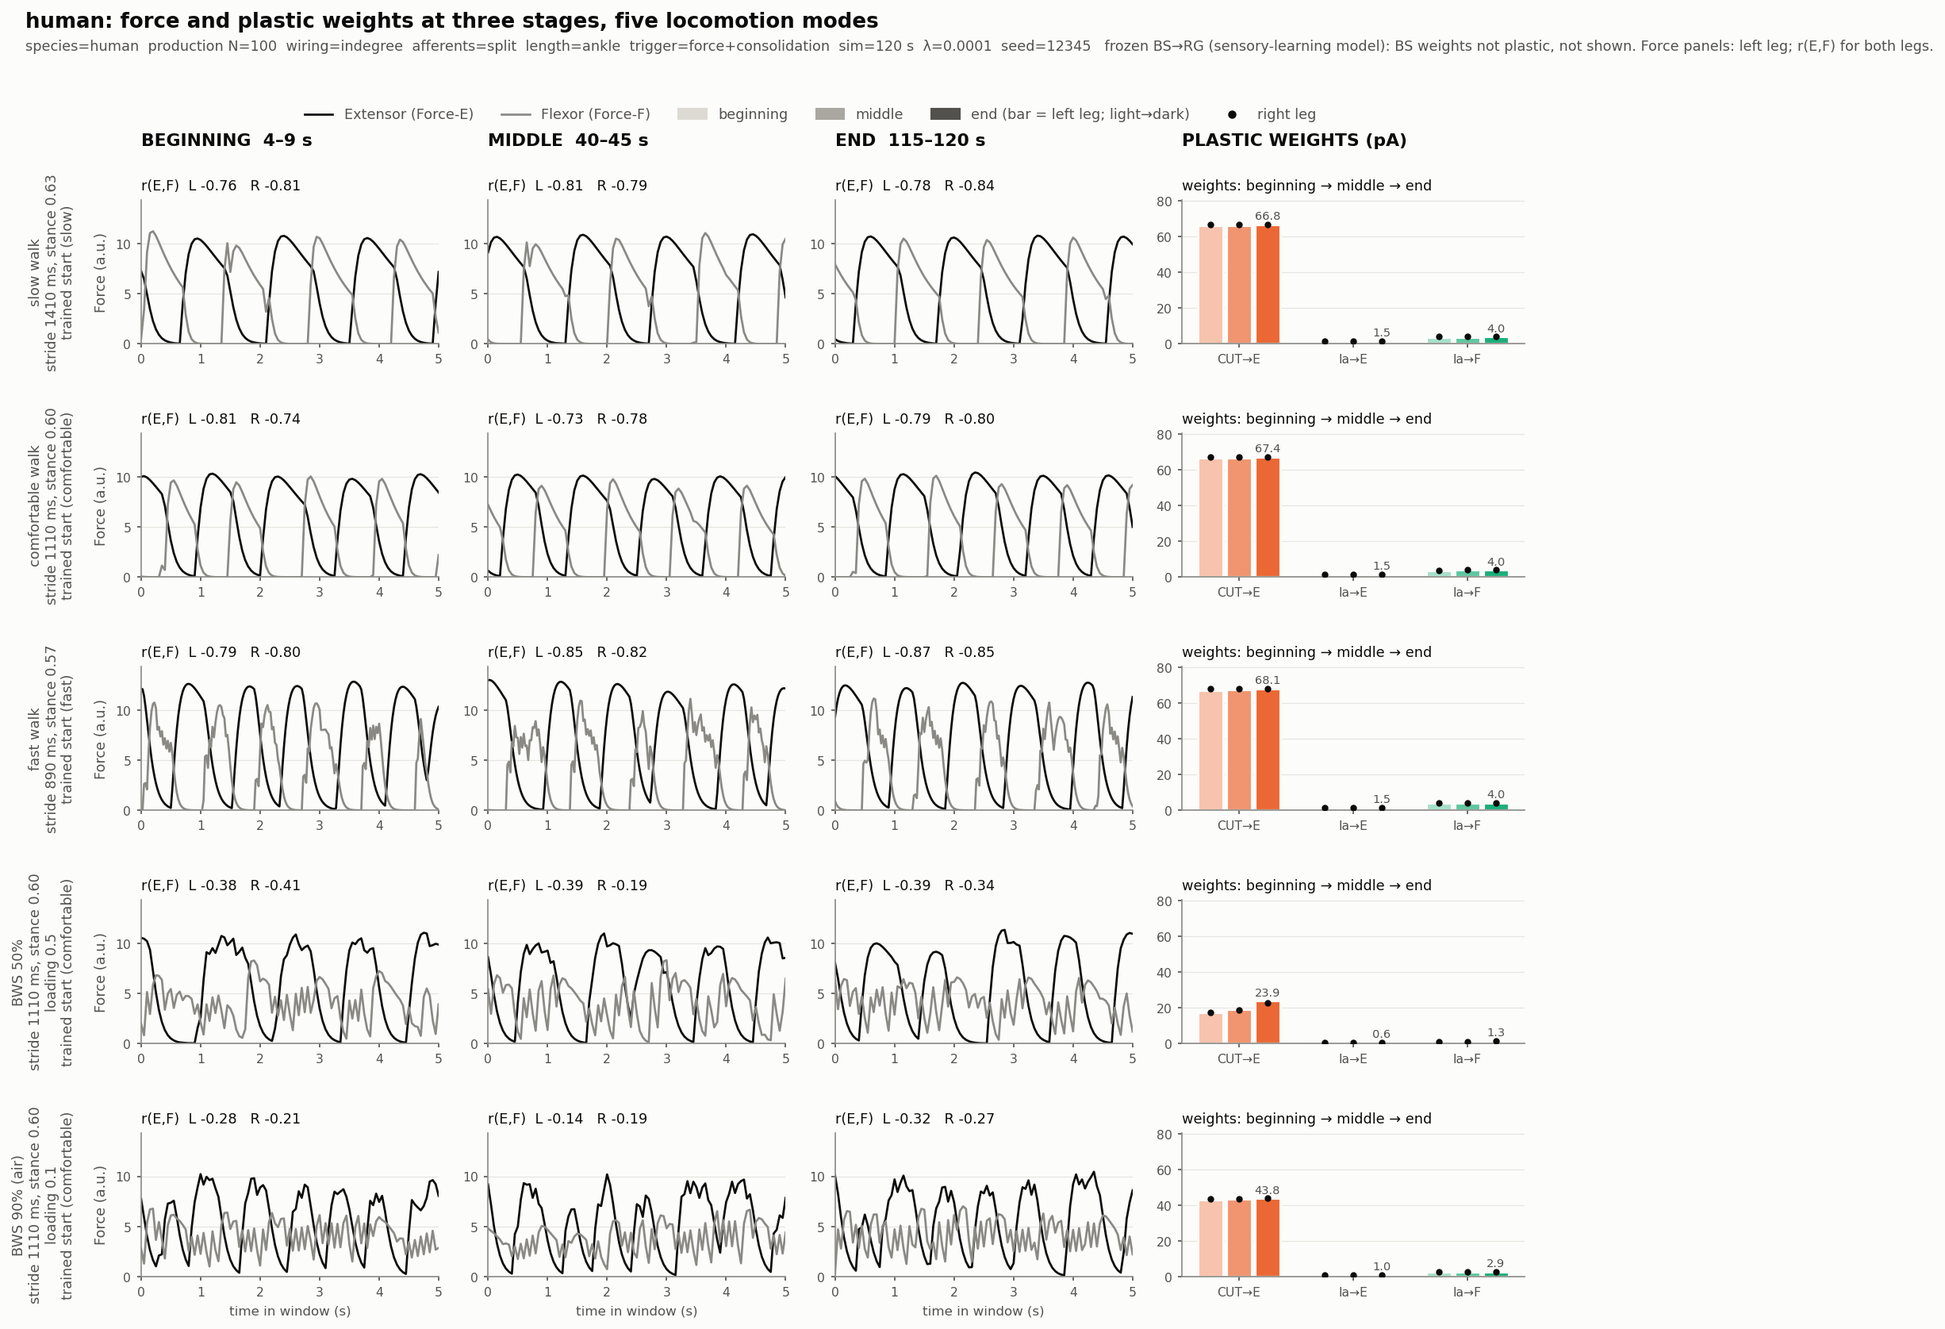
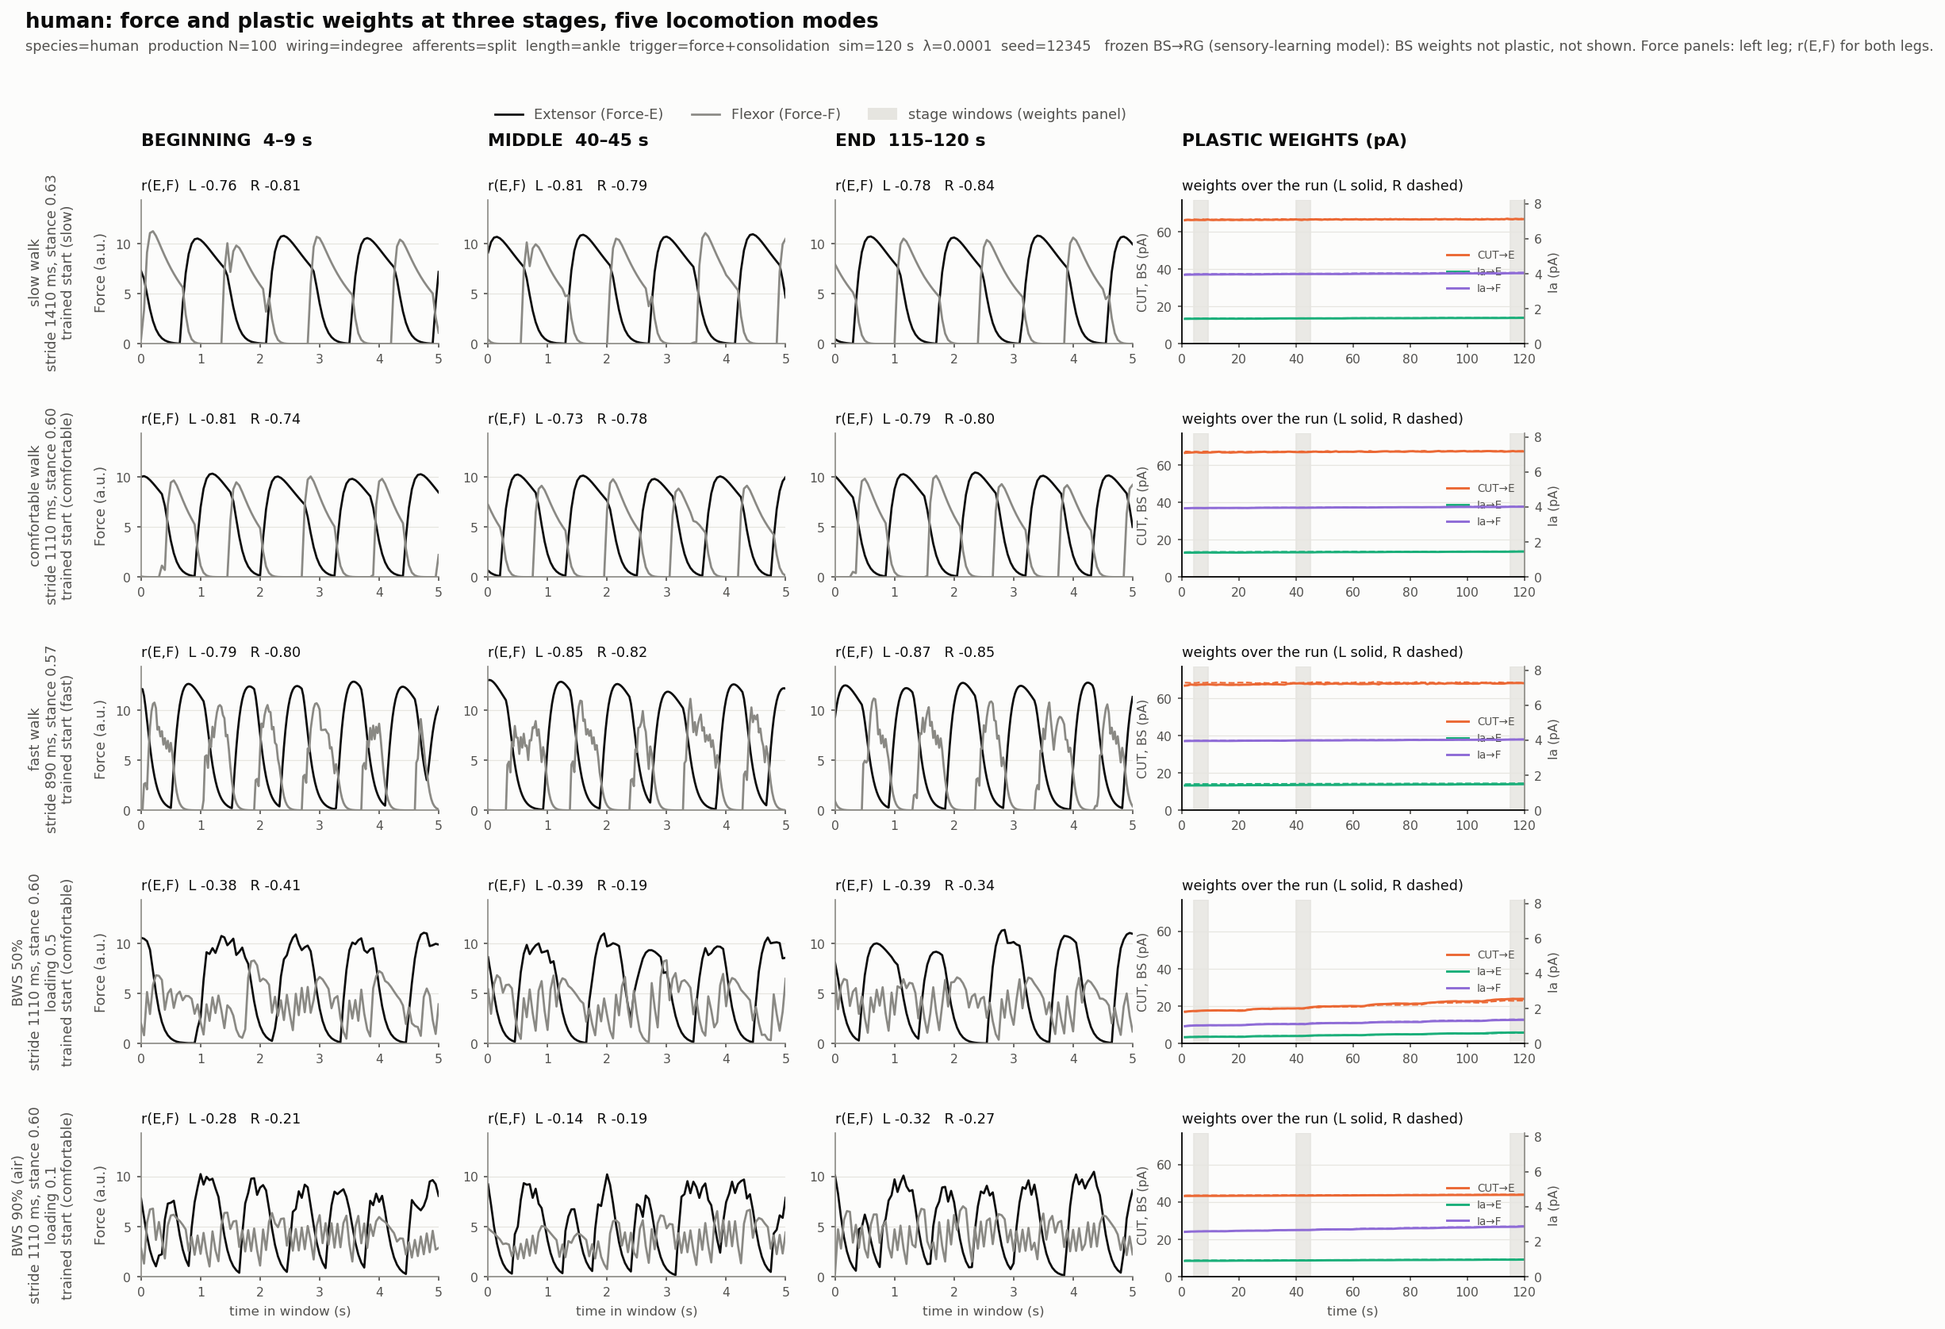
P6: 15-session chains, line-plot weight figures
- scripts/p6_chain_stages.py: first/middle/last session force + weights over the chain
- scripts/cpg_modes_stages.py: weights as time-course lines (--weights-style)
- PLAN.md: chain results (BWS 50% reaches r(E,F) <= -0.5 at session 10; BWS 90% no gain)

diff --git a/scripts/p6_chain_stages.py b/scripts/p6_chain_stages.py
@@ -1,0 +1,153 @@
+#!/usr/bin/env python3
+"""
+p6_chain_stages.py
+PLAN.md Phase 6: force and plastic weights of session chains (run_p6_sessions.sh) at
+three states -- the first, a middle and the last session.
+
+Layout: one row per chain (e.g. BWS 50%, BWS 90%), 4 columns:
+  cols 1-3  force in the last --window-ms of session 1, the middle session and the last
+            session, left leg: Force-E (ink) and Force-F (gray); title: r(E,F) L and R
+  col 4     weights over the whole chain (sessions back to back): live mean CUT->RG-E
+            (orange), its captured baseline (orange dotted), Ia->RG-E / Ia->RG-F on the right
+            axis; left leg; session boundaries as thin lines, the three shown sessions shaded
+
+Usage:
+  python3 scripts/p6_chain_stages.py results/human_modes/p6_chain15/bws50 \
+      results/human_modes/p6_chain15/bws90 --out plots/p6/chain15_stages.png
+"""
+import argparse
+import glob
+import os
+import re
+
+import h5py
+import matplotlib
+
+matplotlib.use("Agg")
+import matplotlib.pyplot as plt  # noqa: E402
+import numpy as np  # noqa: E402
+
+INK, INK_2, MUTED, GRID, SURFACE = "#0b0b0b", "#52514e", "#8a8984", "#e6e5e0", "#fcfcfb"
+COL = {"cut->rge": "#eb6834", "ia->rge": "#1baf7a", "ia->rgf": "#8e6bd6"}
+LABEL = {"cut->rge": "CUT→E", "ia->rge": "Ia→E", "ia->rgf": "Ia→F"}
+
+
+def style(ax):
+    ax.set_facecolor(SURFACE)
+    for s in ("top", "right"):
+        ax.spines[s].set_visible(False)
+    for s in ("left", "bottom"):
+        ax.spines[s].set_color(MUTED)
+    ax.tick_params(colors=INK_2, labelsize=7.5, length=2.5)
+    ax.grid(axis="y", color=GRID, linewidth=0.6)
+    ax.set_axisbelow(True)
+
+
+def corr(a, b):
+    return np.corrcoef(a, b)[0, 1] if a.std() > 1e-9 and b.std() > 1e-9 else np.nan
+
+
+def load_chain(d):
+    sess = sorted(glob.glob(os.path.join(d, "s*")), key=lambda p: int(re.sub(r"\D", "", os.path.basename(p))))
+    runs = []
+    for sd in sess:
+        h5 = [p for p in glob.glob(os.path.join(sd, "*.h5")) if not os.path.islink(p)]
+        if not h5:
+            continue
+        with h5py.File(h5[0], "r") as f:
+            r = {"t": f["times_ms"][()], "mode": os.path.splitext(os.path.basename(h5[0]))[0],
+                 "loading": float(f.attrs.get("cut_feedback_gain", 1.0))}
+            for s in "LR":
+                g = f[f"leg_{s}"]
+                r[s] = {"fe": g["force_e"][()], "ff": g["force_f"][()],
+                        "w": {k: g[f"weights/{k}_mean"][()] for k in COL if f"weights/{k}_mean" in g},
+                        "b": {k: g[f"consolidation/{k}_baseline_mean"][()] for k in COL
+                              if f"consolidation/{k}_baseline_mean" in g}}
+        runs.append(r)
+    return runs
+
+
+def main():
+    ap = argparse.ArgumentParser(description=__doc__, formatter_class=argparse.RawDescriptionHelpFormatter)
+    ap.add_argument("chains", nargs="+")
+    ap.add_argument("--out", required=True)
+    ap.add_argument("--window-ms", type=float, default=5000.0)
+    args = ap.parse_args()
+    chains = [(c, load_chain(c)) for c in args.chains]
+    chains = [(c, r) for c, r in chains if r]
+    fmax = max(max(r["L"]["fe"].max(), r["L"]["ff"].max()) for _, rs in chains for r in rs) * 1.08
+    H = 2.6 * len(chains) + 1.4  # figure height (in); the top 1.4 in hold title, legend and column headers
+    fig, axes = plt.subplots(len(chains), 4, figsize=(15, H), facecolor=SURFACE, squeeze=False,
+                             gridspec_kw={"width_ratios": [1, 1, 1, 1.3], "hspace": 0.62, "wspace": 0.18})
+    fig.subplots_adjust(top=1 - 1.4 / H, bottom=0.5 / H)
+    for row, (cdir, runs) in enumerate(chains):
+        n = len(runs)
+        shown = [0, (n - 1) // 2, n - 1]
+        for c in range(4):
+            style(axes[row, c])
+        for c, si in enumerate(shown):
+            ax = axes[row, c]
+            r = runs[si]
+            m = r["t"] > r["t"][-1] - args.window_ms
+            tt = (r["t"][m] - r["t"][m][0]) / 1000.0
+            ax.plot(tt, r["L"]["fe"][m], color=INK, linewidth=1.3, label="Extensor (Force-E)")
+            ax.plot(tt, r["L"]["ff"][m], color=MUTED, linewidth=1.3, label="Flexor (Force-F)")
+            ax.set_ylim(0, fmax); ax.set_xlim(0, args.window_ms / 1000.0)
+            rl = corr(r["L"]["fe"][m], r["L"]["ff"][m]); rr = corr(r["R"]["fe"][m], r["R"]["ff"][m])
+            ax.set_title(f"session {si + 1}/{n}   r(E,F)  L {rl:+.2f}  R {rr:+.2f}", fontsize=8.5, color=INK,
+                         loc="left")
+            if row == 0:
+                name = ["FIRST", "MIDDLE", "LAST"][c]
+                ax.text(0.0, 1.2, f"{name} SESSION (last {args.window_ms / 1000:.0f} s)", transform=ax.transAxes,
+                        fontsize=10.5, fontweight="bold", color=INK)
+            if c == 0:
+                ax.set_ylabel(f"{runs[0]['mode']}  (loading {runs[0]['loading']:g})\n{n} sessions\n\nForce (a.u.)",
+                              fontsize=8.5, color=INK_2)
+            if row == len(chains) - 1:
+                ax.set_xlabel("time in window (s)", fontsize=8, color=INK_2)
+        ax = axes[row, 3]
+        ax2 = ax.twinx()
+        ax2.spines["top"].set_visible(False); ax2.spines["right"].set_color(MUTED)
+        ax2.tick_params(colors=INK_2, labelsize=7.5, length=2.5)
+        t0 = 0.0
+        ia_max = 1.0
+        cut_max = 1.0
+        for si, r in enumerate(runs):
+            tt = (r["t"] / 1000.0) + t0
+            if si in shown:
+                ax.axvspan(tt[0], tt[-1], color=GRID, alpha=0.7, zorder=0)
+            ax.axvline(t0, color=GRID, linewidth=0.6, zorder=0)
+            for k, w in r["L"]["w"].items():
+                tgt = ax2 if k.startswith("ia") else ax
+                tgt.plot(tt, w, color=COL[k], linewidth=1.2, label=LABEL[k] if si == 0 else None)
+                (cut_max, ia_max) = (cut_max, max(ia_max, np.nanmax(w))) if k.startswith("ia") else \
+                    (max(cut_max, np.nanmax(w)), ia_max)
+            if "cut->rge" in r["L"]["b"]:
+                ax.plot(tt, r["L"]["b"]["cut->rge"], ":", color=COL["cut->rge"], linewidth=1.2,
+                        label="CUT→E captured" if si == 0 else None)
+            t0 = tt[-1]
+        ax.set_xlim(0, t0); ax.set_ylim(0, cut_max * 1.15); ax2.set_ylim(0, ia_max * 1.8)
+        ax.set_ylabel("CUT (pA)", fontsize=7.5, color=INK_2); ax2.set_ylabel("Ia (pA)", fontsize=7.5, color=INK_2)
+        h1, l1 = ax.get_legend_handles_labels(); h2, l2 = ax2.get_legend_handles_labels()
+        ax.legend(h1 + h2, l1 + l2, fontsize=6.5, frameon=False, loc="lower right", labelcolor=INK_2)
+        ax.set_title("weights over the chain (left leg)", fontsize=8.5, color=INK, loc="left")
+        if row == 0:
+            ax.text(0.0, 1.2, "PLASTIC WEIGHTS (pA)", transform=ax.transAxes, fontsize=10.5, fontweight="bold",
+                    color=INK)
+        if row == len(chains) - 1:
+            ax.set_xlabel("simulated training time, sessions back to back (s)", fontsize=8, color=INK_2)
+    h, l = axes[0, 0].get_legend_handles_labels()
+    fig.legend(h, l, loc="upper center", ncol=2, frameon=False, fontsize=8.5, labelcolor=INK_2,
+               bbox_to_anchor=(0.5, 1 - 0.62 / H))
+    fig.text(0.06, 1 - 0.12 / H, "P6 session chains: force and plastic weights, first / middle / last session",
+             ha="left", va="top", fontsize=12.5, fontweight="bold", color=INK)
+    fig.text(0.06, 1 - 0.42 / H, "each session starts from the previous session's captured baselines "
+             "(--init-weights-state baseline); session 1 = injured start (trained comfortable weights x init_scale)",
+             ha="left", va="top", fontsize=8.5, color=INK_2)
+    os.makedirs(os.path.dirname(args.out) or ".", exist_ok=True)
+    fig.savefig(args.out, dpi=150, bbox_inches="tight", facecolor=SURFACE)
+    print(f"[p6-chain] wrote {args.out}")
+
+
+if __name__ == "__main__":
+    main()

diff --git a/scripts/cpg_modes_stages.py b/scripts/cpg_modes_stages.py
@@ -10,9 +10,11 @@ Layout: one row per mode (slow, medium, fast, toe, air), 4 columns:
   cols 1-3  force in the stage window, left leg: Force-E (extensor, ink) and
             Force-F (flexor, gray). Title: in-window r(E,F) for left and right
             leg.
-  col 4     plastic weights (mean over synapses, full-weight snapshots inside
-            each window): one bar group per pathway, three bars light -> dark =
-            beginning -> middle -> end (left leg); a dot marks the right leg.
+  col 4     plastic weights. --weights-style lines (default): mean weight over the
+            whole run per pathway (left leg solid, right leg dashed), the three stage
+            windows shaded; CUT/BS on the left axis, Ia on the right axis (~10x
+            smaller). --weights-style bars: the mean inside each window, one bar
+            group per pathway, light -> dark = beginning -> end; a dot = right leg.
             Pathways without plasticity in the run (e.g. BS->RG under
             --freeze-bs-rg) are not recorded and so not shown.
 
@@ -47,6 +49,8 @@ PATHWAYS = [("bs_to_rge", "BS→E", ["#b7d0f0", "#6fa3e3", "#2a78d6"]),
             ("ia_to_rge", "Ia→E", ["#a6e0c9", "#5fc7a0", "#1baf7a"]),
             ("bs_to_rgf", "BS→F", ["#b7d0f0", "#6fa3e3", "#2a78d6"]),
             ("ia_to_rgf", "Ia→F", ["#a6e0c9", "#5fc7a0", "#1baf7a"])]
+LINE_COL = {"bs_to_rge": "#2a78d6", "bs_to_rgf": "#8fb6e8", "cut_to_rge": "#eb6834",
+            "ia_to_rge": "#1baf7a", "ia_to_rgf": "#8e6bd6"}
 DEFAULT_STAGES = [("beginning", 4000.0, 9000.0), ("middle", 40000.0, 45000.0), ("end", 115000.0, 120000.0)]
 
 
@@ -77,6 +81,7 @@ def main():
     ap.add_argument("--indir", default=None, help="default results/modes/<species>")
     ap.add_argument("--out", default=None, help="default plots/modes/<species>_modes_stages.png")
     ap.add_argument("--stage", action="append", help="name:lo_ms:hi_ms, exactly 3")
+    ap.add_argument("--weights-style", choices=["lines", "bars"], default="lines")
     ap.add_argument("--modes-config", default=None,
                     help="modes YAML (e.g. config/modes/human.yaml): mode names, order and labels")
     args = ap.parse_args()
@@ -127,6 +132,11 @@ def main():
                            for k, _, _ in present if k in d[side]["full"]}
                           for _, lo, hi in stages] for side in ("L", "R")}
     wtop = max(v for m in W.values() for side in m.values() for st in side for v in st.values()) * 1.18
+    full_max = lambda pred: max([float(np.nanmax(np.nanmean(d[side]["full"][k], axis=1)))
+                                 for d in data.values() for side in ("L", "R") for k in d[side]["full"] if pred(k)]
+                                or [1.0]) * 1.12
+    wtop_cut = full_max(lambda k: not k.startswith("ia"))
+    wtop_ia = full_max(lambda k: k.startswith("ia")) * 1.8  # Ia lines below the CUT line
 
     fig, axes = plt.subplots(len(MODES), 4, figsize=(15, 2.35 * len(MODES)), facecolor=SURFACE,
                              gridspec_kw={"width_ratios": [1, 1, 1, 1.15], "hspace": 0.62, "wspace": 0.16})
@@ -158,6 +168,34 @@ def main():
                 ax.set_xlabel("time in window (s)", fontsize=8, color=INK_2)
 
         ax = axes[r, 3]
+        if args.weights_style == "lines":
+            ax2 = ax.twinx()
+            ax2.spines["top"].set_visible(False); ax2.spines["right"].set_color(MUTED)
+            ax2.tick_params(colors=INK_2, labelsize=7.5, length=2.5)
+            for _, lo, hi in stages:
+                ax.axvspan(lo / 1000.0, hi / 1000.0, color=GRID, alpha=0.8, zorder=0)
+            for k, lab, steps in present:
+                tgt = ax2 if k.startswith("ia") else ax
+                col = LINE_COL.get(k, steps[2])
+                for side, ls in (("L", "-"), ("R", "--")):
+                    if k in d[side]["full"]:
+                        tgt.plot(d["wt"] / 1000.0, np.nanmean(d[side]["full"][k], axis=1), ls, color=col,
+                                 linewidth=1.4 if side == "L" else 1.0,
+                                 label=lab if side == "L" else None)
+            ax.set_ylim(0, wtop_cut); ax2.set_ylim(0, wtop_ia)
+            ax.set_xlim(0, d["wt"][-1] / 1000.0)
+            ax.set_ylabel("CUT, BS (pA)", fontsize=7.5, color=INK_2)
+            ax2.set_ylabel("Ia (pA)", fontsize=7.5, color=INK_2)
+            hs = ax.get_legend_handles_labels(); hs2 = ax2.get_legend_handles_labels()
+            ax.legend(hs[0] + hs2[0], hs[1] + hs2[1], fontsize=6.5, frameon=False, loc="center right",
+                      labelcolor=INK_2)
+            ax.set_title("weights over the run (L solid, R dashed)", fontsize=8.5, color=INK, loc="left")
+            if r == len(MODES) - 1:
+                ax.set_xlabel("time (s)", fontsize=8, color=INK_2)
+            if r == 0:
+                ax.text(0.0, 1.38, "PLASTIC WEIGHTS (pA)", transform=ax.transAxes, fontsize=10.5,
+                        fontweight="bold", color=INK)
+            continue
         xs = []
         for gi, (k, lab, steps) in enumerate(present):
             for si in range(3):
@@ -182,9 +220,12 @@ def main():
                     fontweight="bold", color=INK)
 
     h, l = axes[0, 0].get_legend_handles_labels()
-    h += [plt.Rectangle((0, 0), 1, 1, color=c) for c in ("#dcdad3", "#a9a79f", "#52514e")]
-    l += ["beginning", "middle", "end (bar = left leg; light→dark)"]
-    h.append(plt.Line2D([], [], marker="o", linestyle="", color=INK, markersize=4)); l.append("right leg")
+    if args.weights_style == "lines":
+        h.append(plt.Rectangle((0, 0), 1, 1, color=GRID)); l.append("stage windows (weights panel)")
+    else:
+        h += [plt.Rectangle((0, 0), 1, 1, color=c) for c in ("#dcdad3", "#a9a79f", "#52514e")]
+        l += ["beginning", "middle", "end (bar = left leg; light→dark)"]
+        h.append(plt.Line2D([], [], marker="o", linestyle="", color=INK, markersize=4)); l.append("right leg")
     fig.legend(h, l, loc="upper center", ncol=len(h), frameon=False, fontsize=8.5, labelcolor=INK_2,
                bbox_to_anchor=(0.5, 0.955))
     note = ("frozen BS→RG (sensory-learning model): BS weights not plastic, not shown. "

diff --git a/PLAN.md b/PLAN.md
@@ -1416,9 +1416,38 @@ baselines):
 - At ~3.5 pA per session, reaching the trained level (~60 pA) takes ~10 more
   sessions.
 
-Next: adopt the calibration as the human default (P5 walking modes then start
-trained); a 15-session chain for the full recovery curve and sessions to criterion;
-the chain at production size; λ (5e-4–5e-3) with the calibrated gating.
+Adopted as the human default (2026-09-29, branch `p6-calibration`): species PRP
+threshold 10, BWS τ_tag 3400 (was 34200). Walking modes start trained: each loads its
+own converged P5 run (`init_from` itself; `run_human_modes.sh` `SRC_DIR`). Production,
+five modes (`plots/modes/p6_cal/`, weights now plotted as lines over the run): slow,
+comfortable and fast walk well from the first window (r(E,F) −0.75 to −0.82,
+r(E_L,E_R) −0.89 to −0.95; fast stride 938/890, +5%), with the weights flat at the
+trained level. BWS 50% gains ~6 pA CUT→RG-E in one session (5 captures), with r(E,F)
+unchanged within it.
+
+**15-session chains** (debug-small, 60 s sessions; `plots/p6/chain15_stages.png`,
+`scripts/p6_chain_stages.py`):
+
+| Session | 1 | 3 | 5 | 8 | 10 | 12 | 15 |
+|---|---|---|---|---|---|---|---|
+| BWS 50%: r(E,F) end of session | −0.24 | −0.35 | −0.38 | −0.47 | −0.52 | −0.58 | −0.56 |
+| BWS 50%: CUT→RG-E captured (pA) | 16.8 | 24.0 | 32.1 | 43.7 | 50.5 | 55.6 | 61.1 |
+| BWS 90%: r(E,F) end of session | −0.27 | −0.20 | −0.14 | −0.16 | −0.16 | −0.18 | −0.23 |
+| BWS 90%: CUT→RG-E captured (pA) | 37.9 | 38.6 | 39.3 | 40.3 | 40.9 | 41.5 | 42.4 |
+
+- BWS 50% recovers gradually and keeps each gain. The captured CUT→RG-E rises
+  ~3–4 pA per session, slowing as it nears the trained level (~62 pA). r(E,F) reaches
+  the P5 BWS 50% level (−0.56) by session ~11 and then plateaus. Sessions to criterion
+  (r(E,F) ≤ −0.5): 10. Within any session r(E,F) moves by ≤ 0.08. This meets the P6
+  acceptance shape at debug-small (still on the BWS 50% injured start, not yet the P7b
+  configuration).
+- BWS 90%: +0.3 pA per session and no gait improvement in 15 sessions. Loading drives
+  recovery, and at 10% loading CUT fires at 10 Hz, ~10x fewer learning events.
+  Consistent with the clinical role of loading (to verify); P7c (EES).
+
+Next: the chain at production size (+ 3 seeds); λ in 5e-4–5e-3 with the calibrated
+gating; compare the curve shape with human training studies (sessions to criterion,
+retention).
 
 ### Phase 7 — Healthy → incomplete SCI → complete SCI, with epidural stimulation (L)
 

diff --git a/CLAUDE.md b/CLAUDE.md
@@ -213,6 +213,7 @@ sbatch rat-sh/run.sh
 | `scripts/cpg_gait_phase_metrics.py` | PLAN.md P3 gait-phase metrics from `cut_on` and force: stance fraction, double support, flight, measured stride, r(E,F), r(E_L,E_R), extensor activity and "neural double support". |
 | `scripts/cpg_gait_phase_figure.py` | PLAN.md P3 figure: per-leg stance bars with double support shaded, and both legs' Force-E. |
 | `scripts/p6_session_metrics.py` | PLAN.md P6: per session run, r(E,F) and CUT→RG-E weight in the start and end windows, the captured baseline at the end and the capture count, i.e. how much one session changes and what it keeps. |
+| `scripts/p6_chain_stages.py` | PLAN.md P6 figure for session chains (`run_p6_sessions.sh`): force in the first, middle and last session, and the weights over the whole chain (live and captured CUT→RG-E, Ia on a second axis). `run_p6_sessions.sh`: N sessions of one mode, each from the previous session's captured baselines. |
 | `scripts/p5_seed_summary.py` | PLAN.md P5 acceptance across seeds: one directory per seed (`results/human_modes/p5_seeds/s<seed>/`), mean ± sd per mode of stride, stance fraction, capped bouts, r(E,F), r(E_L,E_R), right-touchdown phase and double support; `--from-ms`, `--per-seed`. |
 | `run_modes_mn5.sh` | MN5 check A: SLURM array, 10 tasks (human five modes, then the rat reference) at production size, 120 s, CPU partition `gp_bsccs`, 1 h. Submit from the repo root: `sbatch run_modes_mn5.sh`. Local smoke test: `SLURM_ARRAY_TASK_ID=0 SLURM_CPUS_PER_TASK=4 SIM_MS=2000 bash run_modes_mn5.sh`. |
 | `run_modes_local.sh` | The five canonical locomotion modes (slow/medium/fast walk, toe/air stepping; sensory-learning model) locally at `--debug-small`, for one species → `results/modes/<species>/`. |
